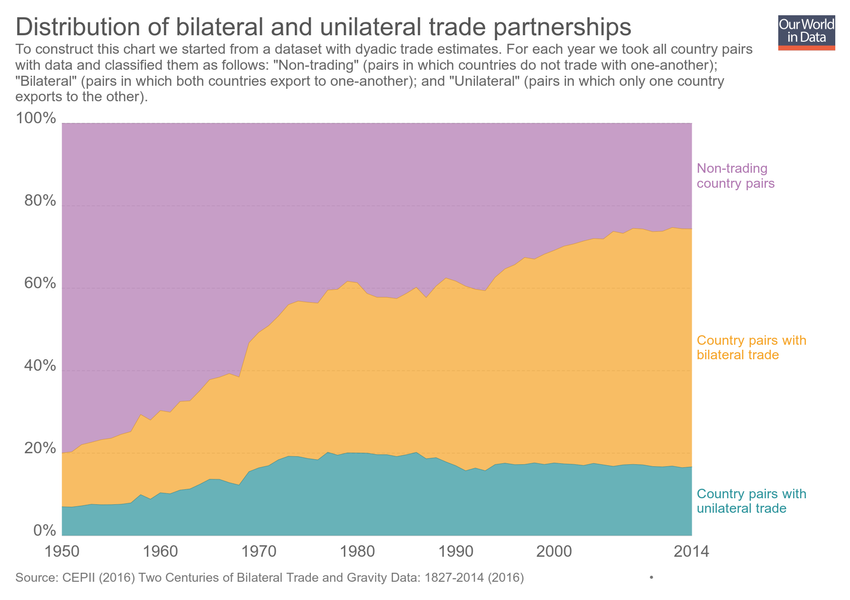
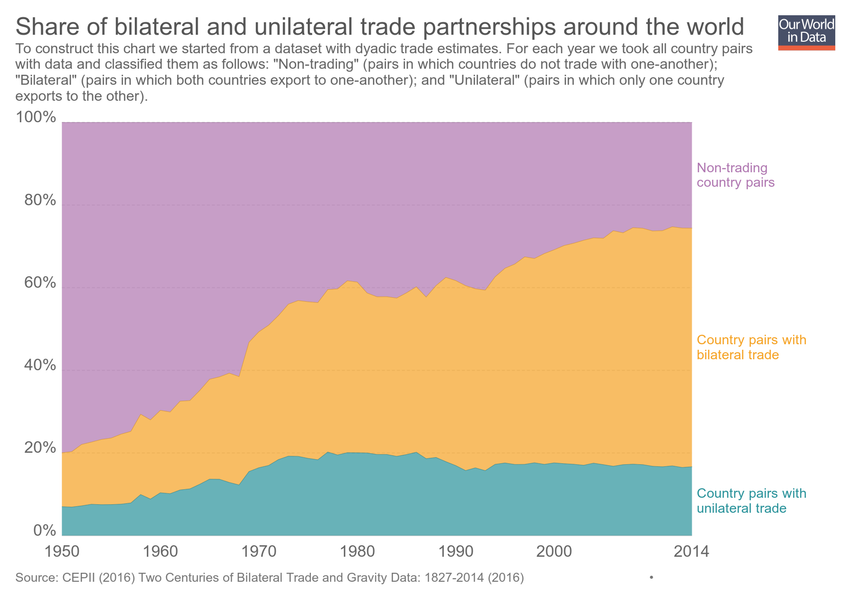
Updating chart distribution-of-bilateral-and-unilateral-trade-partnerships

diff --git a/grapher/distribution-of-bilateral-and-unilateral-trade-partnerships.html b/grapher/distribution-of-bilateral-and-unilateral-trade-partnerships.html
@@ -1,4 +1,4 @@
-<!doctype html><html><head><meta name="viewport" content="width=device-width, initial-scale=1" /><title>Distribution of bilateral and unilateral trade partnerships - Our World in Data</title><meta name="description" content="To construct this chart we started from a dataset with dyadic trade estimates. For each year we took all country pairs with data and classified them as follows: &quot;Non-trading&quot; (pairs in which countries do not trade with one-another); &quot;Bilateral&quot; (pairs in which both countries export to one-another); and &quot;Unilateral&quot; (pairs in which only one country exports to the other)." /><link rel="canonical" href="https://ourworldindata.org/grapher/distribution-of-bilateral-and-unilateral-trade-partnerships" /><meta property="fb:app_id" content="1149943818390250" /><meta property="og:url" content="https://ourworldindata.org/grapher/distribution-of-bilateral-and-unilateral-trade-partnerships" /><meta property="og:title" content="Distribution of bilateral and unilateral trade partnerships" /><meta property="og:description" content="To construct this chart we started from a dataset with dyadic trade estimates. For each year we took all country pairs with data and classified them as follows: &quot;Non-trading&quot; (pairs in which countries do not trade with one-another); &quot;Bilateral&quot; (pairs in which both countries export to one-another); and &quot;Unilateral&quot; (pairs in which only one country exports to the other)." /><meta property="og:image" content="https://ourworldindata.org/grapher/exports/distribution-of-bilateral-and-unilateral-trade-partnerships.png?v=10" /><meta property="og:image:width" content="850" /><meta property="og:image:height" content="600" /><meta property="og:site_name" content="Our World in Data" /><meta name="twitter:card" content="summary_large_image" /><meta name="twitter:site" content="@OurWorldInData" /><meta name="twitter:creator" content="@OurWorldInData" /><meta name="twitter:title" content="Distribution of bilateral and unilateral trade partnerships" /><meta name="twitter:description" content="To construct this chart we started from a dataset with dyadic trade estimates. For each year we took all country pairs with data and classified them as follows: &quot;Non-trading&quot; (pairs in which countries do not trade with one-another); &quot;Bilateral&quot; (pairs in which both countries export to one-another); and &quot;Unilateral&quot; (pairs in which only one country exports to the other)." /><meta name="twitter:image" content="https://ourworldindata.org/grapher/exports/distribution-of-bilateral-and-unilateral-trade-partnerships.png?v=10" /><style>
+<!doctype html><html><head><meta name="viewport" content="width=device-width, initial-scale=1" /><title>Share of bilateral and unilateral trade partnerships around the world - Our World in Data</title><meta name="description" content="To construct this chart we started from a dataset with dyadic trade estimates. For each year we took all country pairs with data and classified them as follows: &quot;Non-trading&quot; (pairs in which countries do not trade with one-another); &quot;Bilateral&quot; (pairs in which both countries export to one-another); and &quot;Unilateral&quot; (pairs in which only one country exports to the other)." /><link rel="canonical" href="https://ourworldindata.org/grapher/distribution-of-bilateral-and-unilateral-trade-partnerships" /><meta property="fb:app_id" content="1149943818390250" /><meta property="og:url" content="https://ourworldindata.org/grapher/distribution-of-bilateral-and-unilateral-trade-partnerships" /><meta property="og:title" content="Share of bilateral and unilateral trade partnerships around the world" /><meta property="og:description" content="To construct this chart we started from a dataset with dyadic trade estimates. For each year we took all country pairs with data and classified them as follows: &quot;Non-trading&quot; (pairs in which countries do not trade with one-another); &quot;Bilateral&quot; (pairs in which both countries export to one-another); and &quot;Unilateral&quot; (pairs in which only one country exports to the other)." /><meta property="og:image" content="https://ourworldindata.org/grapher/exports/distribution-of-bilateral-and-unilateral-trade-partnerships.png?v=13" /><meta property="og:image:width" content="850" /><meta property="og:image:height" content="600" /><meta property="og:site_name" content="Our World in Data" /><meta name="twitter:card" content="summary_large_image" /><meta name="twitter:site" content="@OurWorldInData" /><meta name="twitter:creator" content="@OurWorldInData" /><meta name="twitter:title" content="Share of bilateral and unilateral trade partnerships around the world" /><meta name="twitter:description" content="To construct this chart we started from a dataset with dyadic trade estimates. For each year we took all country pairs with data and classified them as follows: &quot;Non-trading&quot; (pairs in which countries do not trade with one-another); &quot;Bilateral&quot; (pairs in which both countries export to one-another); and &quot;Unilateral&quot; (pairs in which only one country exports to the other)." /><meta name="twitter:image" content="https://ourworldindata.org/grapher/exports/distribution-of-bilateral-and-unilateral-trade-partnerships.png?v=13" /><style>
         html, body {
             height: 100%;
             margin: 0;
@@ -20,8 +20,8 @@
         }
     </style><noscript><style>
                     figure { display: none !important; }
-                </style></noscript><link rel="stylesheet" href="https://ourworldindata.org/grapher/assets/commons.bundle.f1a1d21b78c2ceaa055d.css" /><link rel="preload" href="/grapher/data/variables/97653+97651+97652.json?v=10" as="fetch" crossorigin /></head><body class="singleChart"><figure data-grapher-src="/grapher/distribution-of-bilateral-and-unilateral-trade-partnerships"></figure><noscript id="fallback"><img src="/grapher/exports/distribution-of-bilateral-and-unilateral-trade-partnerships.svg" /><p>Interactive visualization requires JavaScript</p></noscript><script src="https://cdn.polyfill.io/v2/polyfill.min.js?features=es6,fetch"></script><script src="https://ourworldindata.org/grapher/assets/commons.bundle.f1a1d21b78c2ceaa055d.js"></script><script src="https://ourworldindata.org/grapher/assets/charts.bundle.f1a1d21b78c2ceaa055d.js"></script><script>
-        var jsonConfig = {"id":2848,"map":{"projection":"World","colorSchemeLabels":[],"colorSchemeValues":[],"customNumericColors":[],"customCategoryColors":{},"customCategoryLabels":{},"customHiddenCategories":{}},"tab":"chart","slug":"distribution-of-bilateral-and-unilateral-trade-partnerships","type":"StackedArea","title":"Distribution of bilateral and unilateral trade partnerships","xAxis":{"scaleType":"linear"},"yAxis":{"min":0,"scaleType":"linear"},"version":10,"subtitle":"To construct this chart we started from a dataset with dyadic trade estimates. For each year we took all country pairs with data and classified them as follows: \"Non-trading\" (pairs in which countries do not trade with one-another); \"Bilateral\" (pairs in which both countries export to one-another); and \"Unilateral\" (pairs in which only one country exports to the other).","hasMapTab":false,"stackMode":"relative","dimensions":[{"display":{"name":"Country pairs with bilateral trade"},"property":"y","variableId":97653},{"display":{"name":"Non-trading country pairs"},"property":"y","variableId":97651},{"display":{"name":"Country pairs with unilateral trade"},"property":"y","variableId":97652}],"hasChartTab":true,"isPublished":true,"selectedData":[{"color":"#b077b1","index":1,"entityId":355},{"color":"#f6a324","index":0,"entityId":355},{"color":"#2a939b","index":2,"entityId":355}],"addCountryMode":"change-country","hideRelativeToggle":true,"hideTitleAnnotation":true};
+                </style></noscript><link rel="stylesheet" href="https://ourworldindata.org/grapher/assets/commons.bundle.f1a1d21b78c2ceaa055d.css" /><link rel="preload" href="/grapher/data/variables/97653+97651+97652.json?v=13" as="fetch" crossorigin /></head><body class="singleChart"><figure data-grapher-src="/grapher/distribution-of-bilateral-and-unilateral-trade-partnerships"></figure><noscript id="fallback"><img src="/grapher/exports/distribution-of-bilateral-and-unilateral-trade-partnerships.svg" /><p>Interactive visualization requires JavaScript</p></noscript><script src="https://cdn.polyfill.io/v2/polyfill.min.js?features=es6,fetch"></script><script src="https://ourworldindata.org/grapher/assets/commons.bundle.f1a1d21b78c2ceaa055d.js"></script><script src="https://ourworldindata.org/grapher/assets/charts.bundle.f1a1d21b78c2ceaa055d.js"></script><script>
+        var jsonConfig = {"id":2848,"map":{"projection":"World","colorSchemeLabels":[],"colorSchemeValues":[],"customNumericColors":[],"customCategoryColors":{},"customCategoryLabels":{},"customHiddenCategories":{}},"tab":"chart","slug":"distribution-of-bilateral-and-unilateral-trade-partnerships","type":"StackedArea","title":"Share of bilateral and unilateral trade partnerships around the world","xAxis":{"scaleType":"linear"},"yAxis":{"min":0,"scaleType":"linear"},"version":13,"subtitle":"To construct this chart we started from a dataset with dyadic trade estimates. For each year we took all country pairs with data and classified them as follows: \"Non-trading\" (pairs in which countries do not trade with one-another); \"Bilateral\" (pairs in which both countries export to one-another); and \"Unilateral\" (pairs in which only one country exports to the other).","hasMapTab":false,"stackMode":"relative","dimensions":[{"display":{"name":"Country pairs with bilateral trade"},"property":"y","variableId":97653},{"display":{"name":"Non-trading country pairs"},"property":"y","variableId":97651},{"display":{"name":"Country pairs with unilateral trade"},"property":"y","variableId":97652}],"hasChartTab":true,"isPublished":true,"selectedData":[{"color":"#b077b1","index":1,"entityId":355},{"color":"#f6a324","index":0,"entityId":355},{"color":"#2a939b","index":2,"entityId":355}],"addCountryMode":"change-country","hideRelativeToggle":true,"hideTitleAnnotation":true};
         var figure = document.getElementsByTagName("figure")[0];
         try {
             window.App = {};
